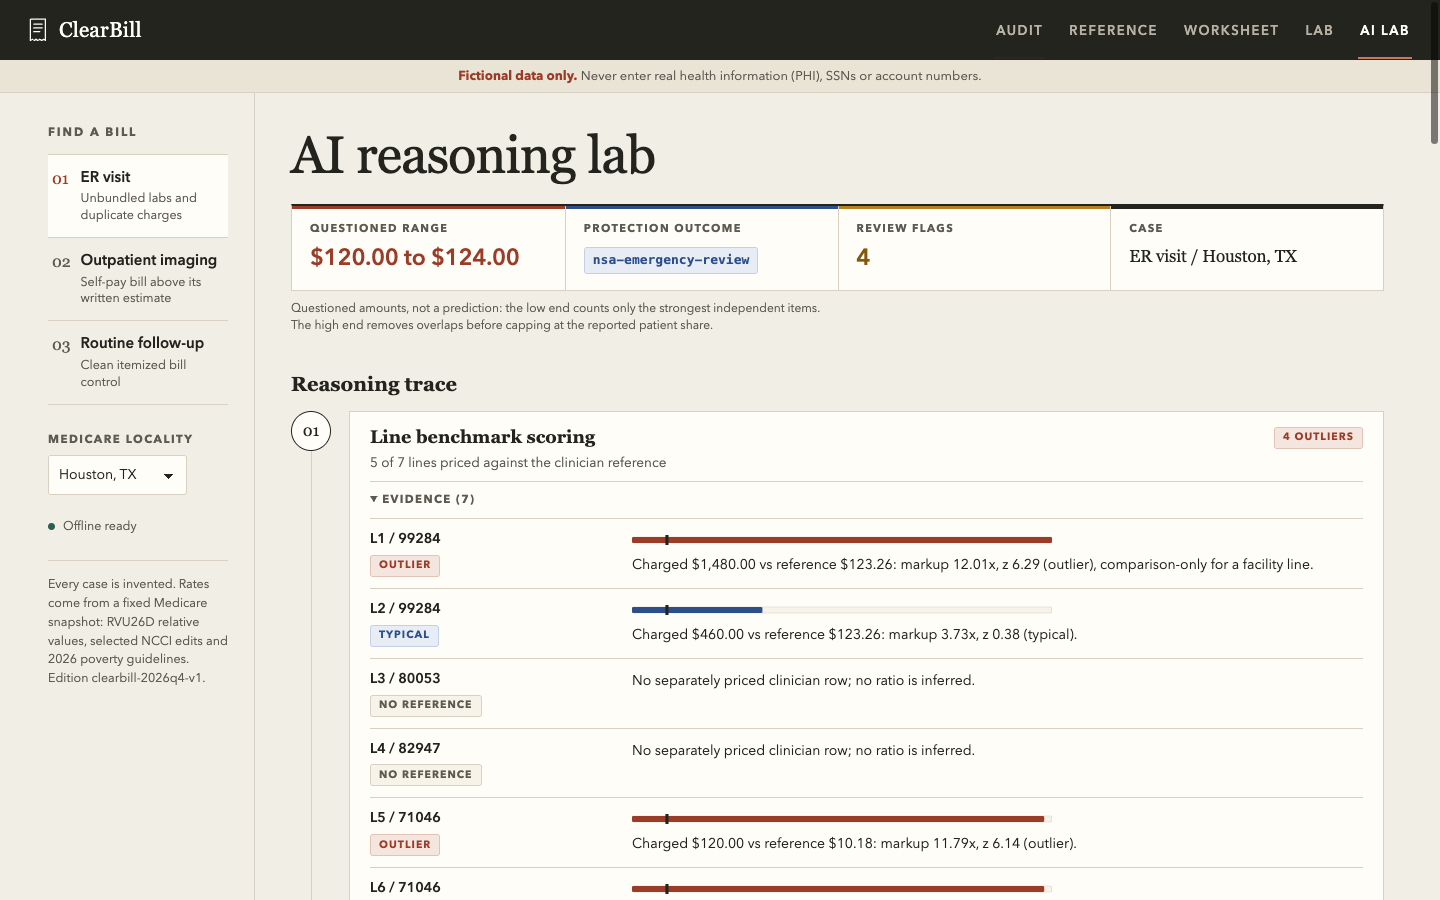
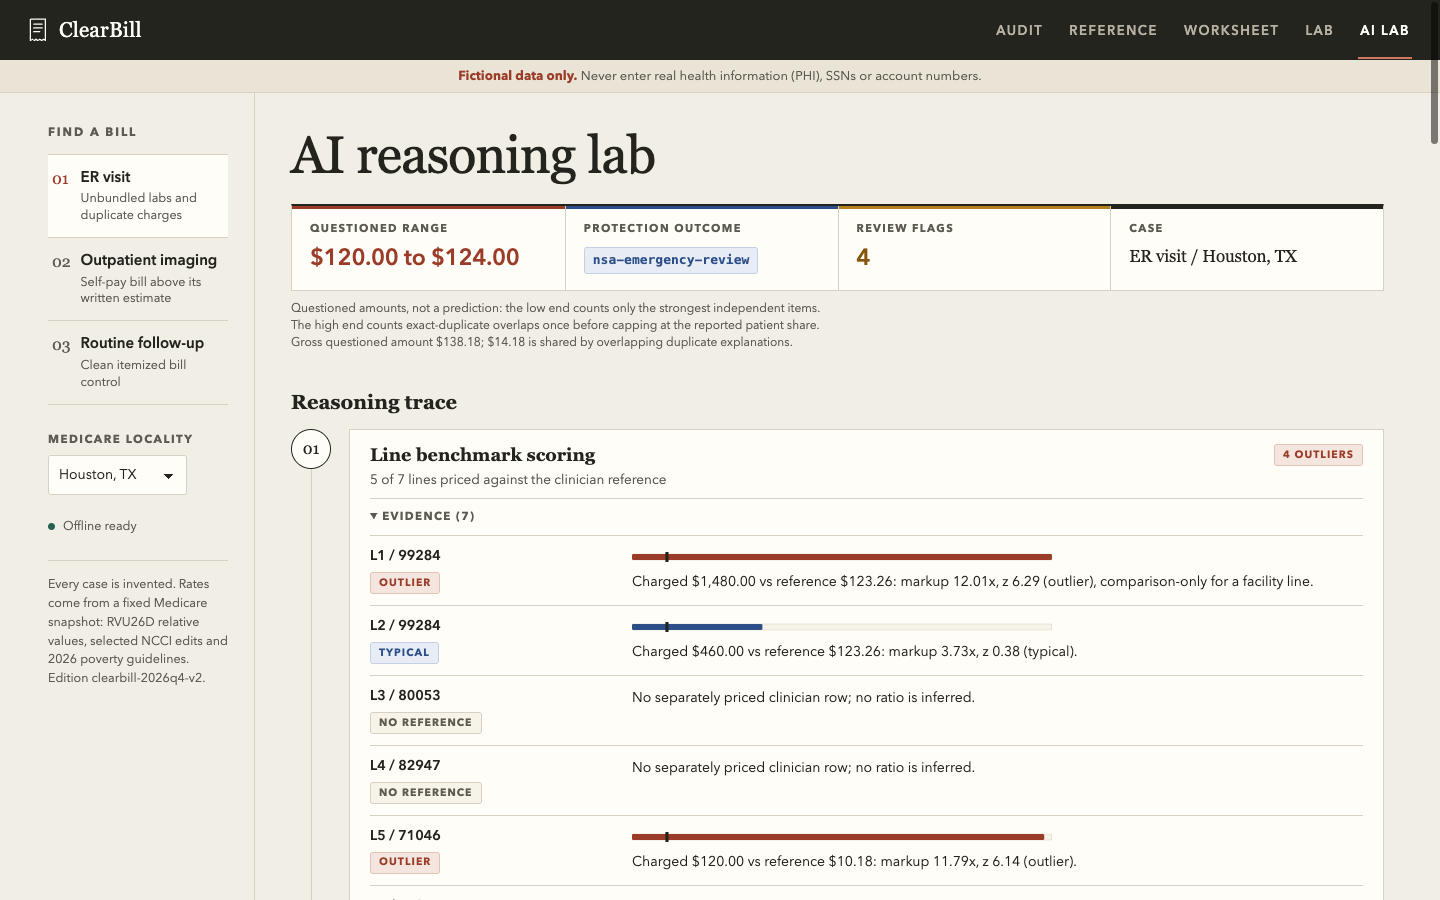
Address repeat-lab and overlap review findings

diff --git a/tests/sensitivity-lab.test.js b/tests/sensitivity-lab.test.js
@@ -309,7 +309,7 @@ test('brief payload is canonical JSON safe and deterministic', () => {
   for (const state of [DEFAULT_LAB_STATE, { code: '80053' }, { gap: -200000, days: 3650, income: 0, size: 8, region: 'hawaii' }]) {
     const brief = buildBrief(state);
     assert.equal(brief.payload.schema, LAB_SCHEMA);
-    assert.equal(brief.payload.ruleVersion, 'clearbill-2026q4-v1');
+    assert.equal(brief.payload.ruleVersion, 'clearbill-2026q4-v2');
     assert.equal(canonical(brief.payload), brief.canonical);
     assert.equal(brief.sha256, nodeDigest(brief.canonical));
     assert.equal(sha256Hex(brief.canonical), nodeDigest(brief.canonical));
@@ -330,7 +330,7 @@ test('JSON, CSV and Markdown share one digest', () => {
   assert.match(briefCsv(brief), new RegExp(`"sha256","${brief.sha256}"`));
   const md = briefMarkdown(brief);
   assert(md.split(brief.sha256).length >= 3);
-  assert.match(md, /clearbill-2026q4-v1/);
+  assert.match(md, /clearbill-2026q4-v2/);
 });
 test('JSON verifies and single-digit tamper is caught', () => {
   const brief = briefFor({ code: '99285' });
@@ -350,7 +350,7 @@ for (const [label, mutate] of [
   ['truncation', text => text.slice(0, -20)],
   ['value edit', text => text.replace('"gap": 47500', '"gap": 47501')],
   ['schema swap', text => text.replace('clearbill-sensitivity-v1', 'clearbill-sensitivity-v9')],
-  ['ruleset swap', text => text.replace('clearbill-2026q4-v1', 'clearbill-2026q4-v2')],
+  ['ruleset swap', text => text.replace('clearbill-2026q4-v2', 'clearbill-2026q4-v3')],
   ['digest flip', text => {
     const current = text.match(/"sha256": "([a-f0-9])/)[1];
     return text.replace(`"sha256": "${current}`, `"sha256": "${current === 'f' ? 'e' : 'f'}`);

diff --git a/src/engine.js b/src/engine.js
@@ -1,4 +1,4 @@
-import { CASES, CATALOG, CONVERSION_1E4, DISTINCT_MODIFIERS, ENTITY, EVIDENCE, LOCALITIES, MODIFIERS, PTP, RULESET, SERVICE_DATES } from './data.js';
+import { CASES, CATALOG, CONVERSION_1E4, DISTINCT_MODIFIERS, ENTITY, EVIDENCE, LAB_TEST_CODES, LOCALITIES, MODIFIERS, PTP, RULESET, SERVICE_DATES } from './data.js';
 
 export const MAX_CENTS = 100_000_000;
 export const MAX_UNITS = 500;
@@ -174,7 +174,7 @@ function groupBy(lines, key) {
 function repeatedLines(lines) {
   const results = [];
   const candidates = lines.filter(line => {
-    const repeat = [...DISTINCT_MODIFIERS, '76', '77'];
+    const repeat = [...DISTINCT_MODIFIERS, '76', '77'].filter(modifier => modifier !== '91' || LAB_TEST_CODES.includes(line.code));
     return !quality(line, repeat).documented.length;
   });
   for (const group of groupBy(candidates, line => `${codeKey(line)}/${line.units}/${[...line.modifiers].sort().join(',')}`).values()) {

diff --git a/src/data.js b/src/data.js
@@ -1,4 +1,4 @@
-export const RULESET = 'clearbill-2026q4-v1';
+export const RULESET = 'clearbill-2026q4-v2';
 export const CONVERSION_1E4 = 334009;
 export const SERVICE_DATES = Object.freeze(['2026-10-08', '2026-10-21', '2026-11-03']);
 export const LOCALITIES = Object.freeze({
@@ -40,6 +40,7 @@ export const CATALOG = Object.freeze(Object.fromEntries(Object.entries(catalog).
   ]))), mue: mue && Object.freeze(mue) }),
 ])));
 
+export const LAB_TEST_CODES = Object.freeze(['80048', '80053', '80061', '82465', '82947', '83718', '84478', '85025']);
 export const EVIDENCE = Object.freeze(['none', 'encounter', 'site', 'practitioner', 'nonoverlap', 'repeat-lab']);
 export const DISTINCT_MODIFIERS = Object.freeze(['59', 'XE', 'XS', 'XP', 'XU', '91']);
 export const MODIFIERS = Object.freeze(['26', 'TC', ...DISTINCT_MODIFIERS, '76', '77', '25', 'LT', 'RT']);

diff --git a/src/ai-appeal-reasoning.js b/src/ai-appeal-reasoning.js
@@ -286,7 +286,7 @@ export function recoverableRange(snapshot, coding, report = null) {
     lowCents, highCents, grossQuestionedCents: gross, overlapAdjustmentCents,
     basis: lowCents === 0 && highCents === 0
       ? 'Nothing was flagged on this fictional bill.'
-      : 'Questioned amounts, not a prediction: the low end counts only the strongest independent items. The high end removes overlaps before capping at the reported patient share.',
+      : `Questioned amounts, not a prediction: the low end counts only the strongest independent items. The high end counts exact-duplicate overlaps once before capping at the reported patient share.${overlapAdjustmentCents ? ` Gross questioned amount ${usd(gross)}; ${usd(overlapAdjustmentCents)} is shared by overlapping duplicate explanations.` : ''}`,
   };
 }
 

diff --git a/index.html b/index.html
@@ -39,7 +39,7 @@
     </div>
     <p id="offline-status" role="status" class="offline-status">Preparing offline access</p>
     <div class="rail-note">
-      <p>Every case is invented. Rates come from a fixed Medicare snapshot: RVU26D relative values, selected NCCI edits and 2026 poverty guidelines. Edition clearbill-2026q4-v1.</p>
+      <p>Every case is invented. Rates come from a fixed Medicare snapshot: RVU26D relative values, selected NCCI edits and 2026 poverty guidelines. Edition clearbill-2026q4-v2.</p>
     </div>
   </aside>
   <div class="work-region">

diff --git a/sw.js b/sw.js
@@ -1,5 +1,5 @@
 const prefix = 'clearbill-';
-const cacheName = `${prefix}2026q4-v5`;
+const cacheName = `${prefix}2026q4-v6`;
 const root = self.registration.scope;
 const paths = [
   'index.html', 'styles.css', 'favicon.svg', 'src/app.js', 'src/data.js', 'src/fixtures.js',

diff --git a/README.md b/README.md
@@ -40,7 +40,7 @@ Open `http://127.0.0.1:4173/clearbill/`. The included server only serves the sta
 | Good faith estimate | [CMS patient-provider dispute guidance](https://www.cms.gov/initiatives/your-patient-rights/medical-bill-rights/get-help/dispute-bill). Compare a single same-biller care episode to its written estimate, with an inclusive `$400` amount screen and up to 120 calendar days from the initial bill. A flag requests eligibility review; it does not file a dispute or guarantee eligibility. The fixture check date is fixed for replay. The insured emergency-billing protections are outside scope. |
 | Charity care | [2026 HHS poverty guidelines](https://www.govinfo.gov/content/pkg/FR-2026-01-15/html/2026-00755.htm) for the contiguous states and DC, Alaska and Hawaii. Divide annual income by the relevant household guideline. The 200% and 400% bands are example bands, not a universal eligibility rule. [IRS section 501(r)(4)](https://www.irs.gov/charities-non-profits/financial-assistance-policy-and-emergency-medical-care-policy-section-501r4) requires covered hospitals to publish their eligibility criteria and practices. |
 
-Procedure labels are short original paraphrases for teaching. The project does not ship downloadable source tables or source descriptors. CPT is a registered trademark of the American Medical Association. Check the applicable source and code-use terms before public redistribution. Data edition `clearbill-2026q4-v1` is fixed for replay, not silently updated.
+Procedure labels are short original paraphrases for teaching. The project does not ship downloadable source tables or source descriptors. CPT is a registered trademark of the American Medical Association. Check the applicable source and code-use terms before public redistribution. Data edition `clearbill-2026q4-v2` is fixed for replay, not silently updated.
 
 Source archive fingerprints for reproduction:
 
@@ -65,7 +65,7 @@ node scripts/lab-check.mjs
 node scripts/ai-lab-audit.mjs
 ```
 
-The Node suite (1,295 tests) checks independently calculated references, published unit limits, threshold and time boundaries, exact-cent reconciliation, bounded input perturbations, both export formats and authenticated decryption. For the sensitivity lab it adds pure-JS SHA-256 vectors and seeded parity against `node:crypto` and Web Crypto, locality-by-setting formula parity across the whole catalog, boundary sweeps, fictional case replay counts, formula-safe CSV layout, digest parity across JSON, CSV and Markdown, tamper rejection, and hostile bookmark inputs. For the reasoning lab it adds deterministic-replay and canonical-serialization checks, exact markup and z-score bands, every coverage-tree outcome, plan ordering, recoverable-range caps, simulator cents, waterfall continuity, slider normalization, PII scrub patterns, endpoint gating and canonical-safe assist payloads.
+The Node suite (1,296 tests) checks independently calculated references, published unit limits, threshold and time boundaries, exact-cent reconciliation, bounded input perturbations, both export formats and authenticated decryption. For the sensitivity lab it adds pure-JS SHA-256 vectors and seeded parity against `node:crypto` and Web Crypto, locality-by-setting formula parity across the whole catalog, boundary sweeps, fictional case replay counts, formula-safe CSV layout, digest parity across JSON, CSV and Markdown, tamper rejection, and hostile bookmark inputs. For the reasoning lab it adds deterministic-replay and canonical-serialization checks, exact markup and z-score bands, every coverage-tree outcome, plan ordering, recoverable-range caps, simulator cents, waterfall continuity, slider normalization, PII scrub patterns, endpoint gating and canonical-safe assist payloads.
 
 All Chrome checks use a throwaway headless profile with no logged-in accounts. Set `CHROME_PATH` if the Chrome executable differs. `test:browser` (22 checks) tests both layouts, in-browser imports and exports, service worker control, an offline reload and actual Letter PDF page counts for both worksheet languages. It captures `docs/desktop.png`, `docs/dispute.png` and `docs/mobile.png`. `lab-check` (18 checks) exercises real pointer clicks on the lab controls and SVG markers, digest verify and tamper actions, the 19/19 in-page self-tests, English and Spanish, full `#cbl=` bookmark restore across a reload, and hostile-fragment rejection, with zero console errors, page errors, external requests and horizontal overflow. `ai-lab-audit` (16 checks) drives the reasoning panel at 1440x900 and 390x844 with real pointer clicks: trace stages, slider math and waterfall bars, the digested letter download, the gated and PII-scrubbed assist payload export, the in-page self-tests, a fictional edit flowing into re-analysis, routed downloads, and zero console errors, page errors, external requests and horizontal overflow. It captures `docs/reasoning.png`.
 
@@ -75,4 +75,4 @@ The synthetic checks demonstrate expected behavior on known inputs, not precisio
 
 ClearBill existed before this event. The audit engine, Medicare reference view, bilingual worksheet, sealed summary links, exports, offline service worker, sensitivity lab and the original test and browser harnesses were built earlier.
 
-Built during the event window: the AI reasoning lab (`src/ai-appeal-reasoning.js`), its navigation view and panel in `index.html`, its styles in `styles.css`, `tests/ai-appeal-reasoning.test.mjs`, `scripts/ai-lab-audit.mjs`, the optional local sender `scripts/llm-polish.mjs`, the asset allowlist entry in `scripts/serve.mjs`, the service worker cache bumps to `clearbill-2026q4-v3`, `clearbill-2026q4-v4` and `clearbill-2026q4-v5`, `docs/reasoning.png` and this documentation. A later pass in the same window restyled the AI lab: a summary strip, a numbered four-stage timeline with answer, band and confidence pills and per-line markup gauges, a side-by-side simulator with a projected patient share callout and a waterfall with round dollar gridlines, a paper-style letter with a Print letter button, and a styled payload preview. The reasoning engine, its outputs and the letter text did not change.
+Built during the event window: the AI reasoning lab (`src/ai-appeal-reasoning.js`), its navigation view and panel in `index.html`, its styles in `styles.css`, `tests/ai-appeal-reasoning.test.mjs`, `scripts/ai-lab-audit.mjs`, the optional local sender `scripts/llm-polish.mjs`, the asset allowlist entry in `scripts/serve.mjs`, the service worker cache bumps to `clearbill-2026q4-v3`, `clearbill-2026q4-v4`, `clearbill-2026q4-v5` and `clearbill-2026q4-v6`, `docs/reasoning.png` and this documentation. The same pass corrected documented repeat-laboratory duplicate screening in `src/engine.js` with regressions in `tests/engine.test.mjs`, changed the ER high end from $177.18 to $163.00 by counting overlapping duplicate explanations once, and bumped the ruleset to `clearbill-2026q4-v2`. A later pass in the same window restyled the AI lab: a summary strip, a numbered four-stage timeline with answer, band and confidence pills and per-line markup gauges, a side-by-side simulator with a projected patient share callout and a waterfall with round dollar gridlines, a paper-style letter with a Print letter button, and a styled payload preview. The reasoning engine, its outputs and the letter text did not change.
